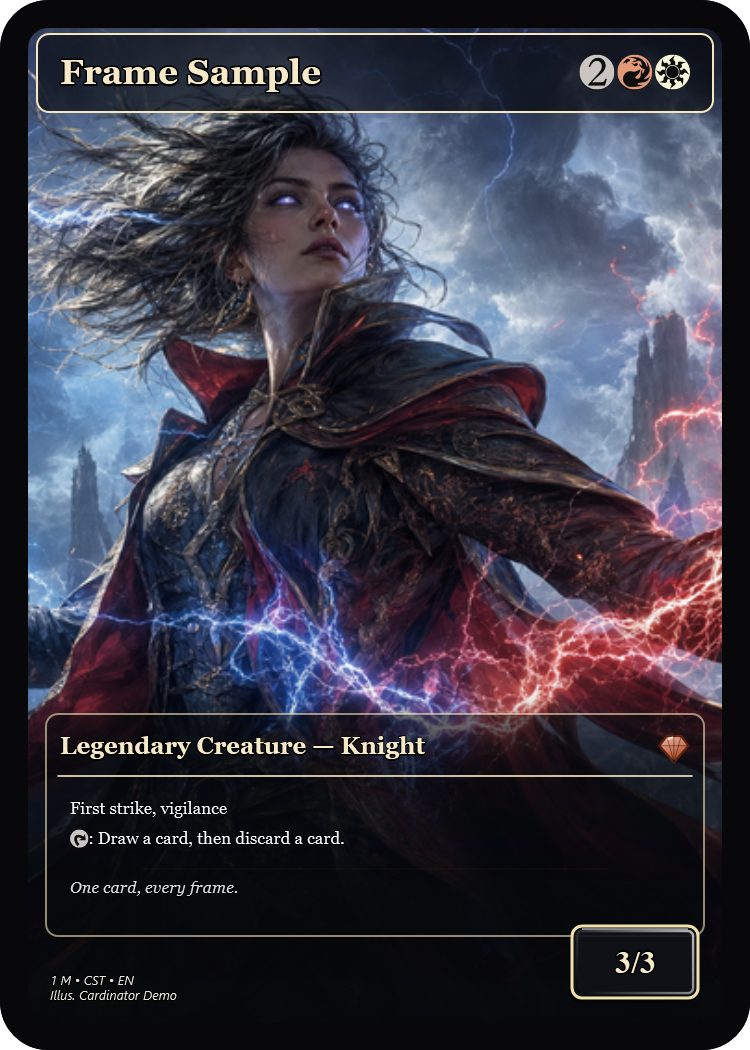
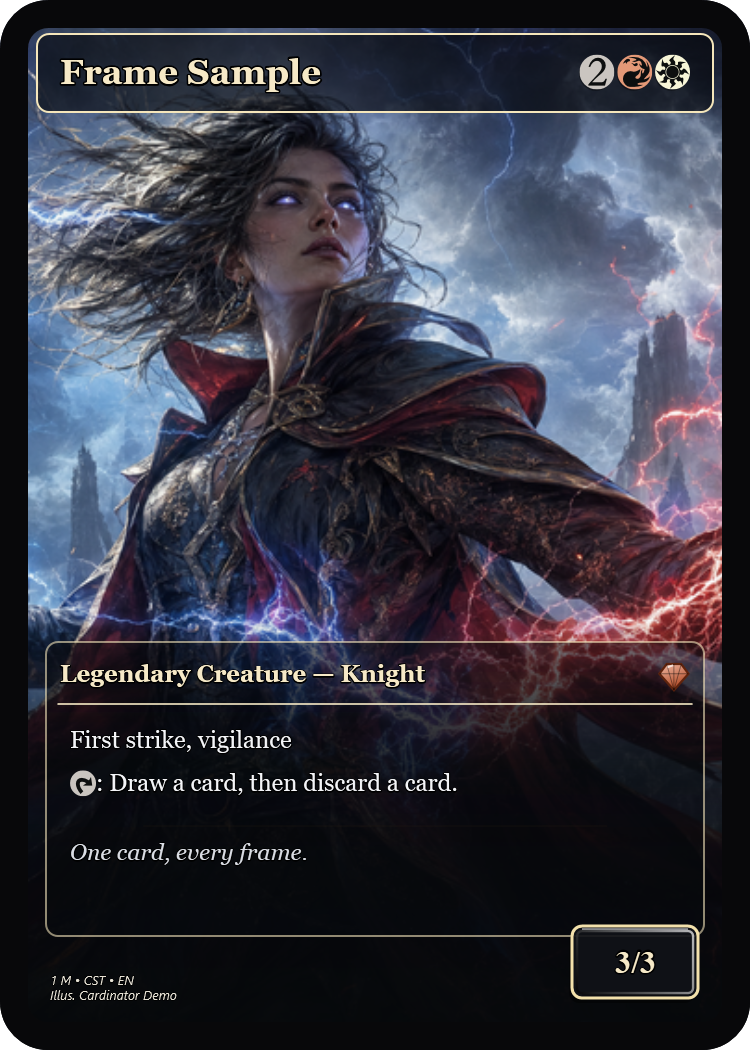
Long text on full-art frames gets room instead of shrinking (1.6.25)
On a frame whose art fills the card (Cinematic, Full Art, Showcase,
Ironwrought Showcase) the text box is short (150-184 px), so a long
card's text shrank to a squint. A card whose text needs more than 1.2x
the box now gets the frame laid out with the type line and text box
raised into the art by the shortfall (24 px steps; the type line no
higher than 52% of the card), drawn and cached like the token and
landscape layouts. Short cards, picture frames and framed art windows
are unchanged. Docs: TEMPLATES explains it; the Cinematic frame image is
redrawn (its sample card's text now reads at full size).

TallTextTests; each part fails its test when taken out. 789 tests pass.

Claude-Session: https://claude.ai/code/session_01VhGah2Lqut8yXp3DQr5jjw

Changed region(s): [[0.0307, 0.6095, 0.9813, 0.8533]]

diff --git a/src/Cardinator/Services/TemplateService.cs b/src/Cardinator/Services/TemplateService.cs
@@ -38,6 +38,7 @@ public sealed class TemplateService
     private static readonly Dictionary<string, Template> LandscapeVariants = new();
     private static readonly Dictionary<string, Template> FlipVariants = new();
     private static readonly Dictionary<string, Template> TokenVariants = new();
+    private static readonly Dictionary<string, Template> TallVariants = new();
     // Every Frame Design tweak makes a new content hash, so the derived-frame caches are bounded: in memory
     // (each holds a full-size frame bitmap) and on disk (CardinatorData/cache/<kind>).
     internal const int VariantCacheMax = 32;
@@ -132,7 +133,13 @@ public sealed class TemplateService
             return TokenOf(template, TokenTextLines(card, template.Spec)) ?? template;
         }
 
-        if (template.Spec.IsLandscape || !card.WantsLandscape) return template;
+        if (template.Spec.IsLandscape || !card.WantsLandscape)
+        {
+            // Long text on a frame whose art fills the card (Cinematic's box is short): the type line and text rise
+            // into the art just far enough, rather than the text shrinking to a squint.
+            double extra = ExtraTextRoom(card, template.Spec);
+            return extra > 0 ? TallerOf(template, extra) ?? template : template;
+        }
         if (template.Variants.TryGetValue(LandscapeVariant, out var side)) return side;
         if (template.Spec.CustomFrame) return template;
         return LandscapeOf(template) ?? template;
@@ -331,6 +338,66 @@ public sealed class TemplateService
     /// cached by content hash in <c>CardinatorData/cache/landscape</c> — never inside the template's own
     /// folder, so a shared template bundle contains only what the user made. Null if it can't be built
     /// (the caller then falls back to portrait rather than failing the render).</summary>
+    /// <summary>How much taller a card's text box should be on a drawn frame whose art fills the card, for text that
+    /// won't fit at a readable size: 0 when it fits with a little shrinking, else the shortfall in steps of
+    /// <see cref="TallStep"/>, the type line rising no higher than <see cref="TallTypeLineTop"/> of the card. A rough
+    /// count (as for tokens) — the renderer still fits the text to the box it gets. 0 on a picture frame (its picture
+    /// can't be redrawn) and on special layouts.</summary>
+    internal static double ExtraTextRoom(CardModel card, TemplateSpec spec)
+    {
+        if (spec.CustomFrame || !spec.ArtFillsCard || spec.IsTokenLayout || spec.IsFlipLayout || spec.IsLandscape) return 0;
+        if (card.IsSplit || card.IsAdventure || card.HasBands) return 0;
+        int lines = TokenTextLines(card, spec);
+        int paragraphs = (card.RulesText ?? "").Split('\n').Count(p => p.Trim().Length > 0);
+        double lineH = spec.RulesFont.Size * 1.34;
+        double need = 36 + lines * lineH + System.Math.Max(0, paragraphs - 1) * lineH * 0.35;
+        if (need <= spec.TextBox.H * TallSlack) return 0;
+        double room = System.Math.Max(0, spec.TypeBar.Y - spec.CanvasHeight * TallTypeLineTop);
+        double extra = System.Math.Min(room, System.Math.Ceiling((need - spec.TextBox.H) / TallStep) * TallStep);
+        return extra >= TallStep ? extra : 0;
+    }
+
+    /// <summary>Text this much taller than its box only shrinks a little, so the box stays as it is.</summary>
+    internal const double TallSlack = 1.2;
+    internal const double TallStep = 24;
+    internal const double TallTypeLineTop = 0.52;
+
+    /// <summary>The frame laid out with a taller text box (<see cref="TemplateSpec.ToTaller"/>), drawn and cached in
+    /// <c>CardinatorData/cache/tall</c> like the other derived layouts. Null if it can't be built.</summary>
+    public static Template? TallerOf(Template template, double extra)
+    {
+        var spec = template.Spec.ToTaller(extra);
+        var key = spec.ContentHash();
+        lock (VariantLock)
+        {
+            if (TallVariants.TryGetValue(key, out var hit)) return hit;
+            try
+            {
+                var dir = Path.Combine(AppPaths.DataDir, "cache", "tall");
+                Directory.CreateDirectory(dir);
+                var framePath = Path.Combine(dir, key[..20] + ".png");
+
+                BitmapImage frame;
+                try
+                {
+                    if (!File.Exists(framePath)) GenerateAtomically(spec, framePath);
+                    frame = CustomFrameComposer.LoadBitmap(framePath);
+                }
+                catch
+                {
+                    SafeDelete(framePath);
+                    GenerateAtomically(spec, framePath);
+                    frame = CustomFrameComposer.LoadBitmap(framePath);
+                }
+
+                var variant = new Template { Name = template.Name, Spec = spec, FramePath = framePath, FrameImage = frame };
+                Remember(TallVariants, key, variant);
+                return variant;
+            }
+            catch { return null; }
+        }
+    }
+
     public static Template? LandscapeOf(Template template)
     {
         var spec = template.Spec.ToLandscape();

diff --git a/tests/Cardinator.Tests/TallTextTests.cs b/tests/Cardinator.Tests/TallTextTests.cs
@@ -1,0 +1,91 @@
+using Cardinator.Models;
+using Cardinator.Services;
+
+namespace Cardinator.Tests;
+
+/// <summary>
+/// 1.6.25: on a frame whose art fills the card (Cinematic, Full Art, Showcase, Ironwrought Showcase) the text box is
+/// short, so a long card's text shrank to a squint. Now such a card gets the frame laid out with the type line and
+/// text box raised into the art just far enough; a short card keeps the frame as it is, and other frames are never
+/// changed. Each test fails with its fix taken out. In the STA-window collection because it builds frames.
+/// </summary>
+[Collection("STAWindows")]
+public class TallTextTests
+{
+    private static Template Frame(string name) => new TemplateService().LoadAll().First(t => t.Name == name);
+
+    private const string Atraxa = "Flying, vigilance, deathtouch, lifelink\nWhen Atraxa enters, reveal the top ten cards of your library. For each card type, you may put a card of that type from among the revealed cards into your hand. Put the rest on the bottom of your library in a random order. (Artifact, battle, creature, enchantment, instant, land, planeswalker, and sorcery are card types.)";
+
+    private static CardModel Card(string rules, string frame) => new()
+    {
+        Name = "Card", TypeLine = "Legendary Creature — Angel", RulesText = rules, Power = "7", Toughness = "7", TemplateName = frame,
+    };
+
+    [Theory]
+    [InlineData("Cinematic")]
+    [InlineData("Full Art")]
+    [InlineData("Showcase")]
+    [InlineData("Ironwrought Showcase")]
+    public void ALongCard_OnAFrameWhoseArtFillsTheCard_GetsATallerTextBox(string name) => TestHelpers.RunSta(() =>
+    {
+        var frame = Frame(name);
+        var used = TemplateService.ResolveFor(Card(Atraxa, name), frame);
+        Assert.True(used.Spec.TextBox.H > frame.Spec.TextBox.H, "the text box didn't grow");
+        Assert.Equal(frame.Spec.TextBox.Bottom, used.Spec.TextBox.Bottom, 3);              // it grows upward only
+        Assert.Equal(frame.Spec.TypeBar.Y - used.Spec.TypeBar.Y, used.Spec.TextBox.H - frame.Spec.TextBox.H, 3);
+        Assert.True(used.Spec.TypeBar.Y >= frame.Spec.CanvasHeight * TemplateService.TallTypeLineTop - 0.5);
+        Assert.Equal(frame.Spec.ArtWindow.H, used.Spec.ArtWindow.H, 3);                    // the art stays full-bleed
+        Assert.NotEqual(frame.FramePath, used.FramePath);                                  // its own band, drawn for it
+        // Resolving again changes nothing (every render path resolves).
+        Assert.Equal(used.Spec.TextBox.H, TemplateService.ResolveFor(Card(Atraxa, name), used).Spec.TextBox.H, 3);
+    });
+
+    [Fact]
+    public void AShortCard_KeepsTheFrameAsItIs() => TestHelpers.RunSta(() =>
+    {
+        var cinematic = Frame("Cinematic");
+        Assert.Same(cinematic, TemplateService.ResolveFor(Card("Flying", "Cinematic"), cinematic));
+    });
+
+    [Fact]
+    public void ACardThatOnlyJustOverflows_ShrinksALittle_AndKeepsTheFrame() => TestHelpers.RunSta(() =>
+    {
+        var cinematic = Frame("Cinematic");
+        var card = new CardModel
+        {
+            Name = "Spell", TypeLine = "Instant", TemplateName = "Cinematic",
+            RulesText = "Counter target spell unless its controller pays {3}. If that spell is countered this way, exile it instead of putting it into its owner's graveyard, then scry 2 and draw a card.",
+        };
+        Assert.Same(cinematic, TemplateService.ResolveFor(card, cinematic));
+    });
+
+    [Theory]
+    [InlineData("Azure Modern")]        // a framed art window
+    [InlineData("Alchemist's Steel")]   // a picture frame: its picture can't be redrawn
+    public void OtherFrames_NeverChange(string name) => TestHelpers.RunSta(() =>
+    {
+        var frame = Frame(name);
+        Assert.Same(frame, TemplateService.ResolveFor(Card(Atraxa, name), frame));
+    });
+
+    [Fact]
+    public void ALongCard_ReadsLargerThanBefore_OnCinematic() => TestHelpers.RunSta(() =>
+    {
+        // The rules text's line height on the plain frame vs. the frame it now gets: the text is drawn larger.
+        var cinematic = Frame("Cinematic");
+        var card = Card(Atraxa, "Cinematic");
+        double LineGap(Template t)
+        {
+            var r = new CardRenderer(new SymbolService());
+            var box = new System.Windows.Rect(t.Spec.TextBox.X + 18, t.Spec.TextBox.Y + 18, t.Spec.TextBox.W - 36, t.Spec.TextBox.H - 36);
+            for (double size = t.Spec.RulesFont.Size; size >= 11; size--)
+            {
+                var runs = r.InspectTextLayout(card.RulesText, box, t.Spec.RulesFont, size, size);
+                if (runs.Max(p => p.Rect.Bottom) <= box.Bottom) return size;
+            }
+            return 11;
+        }
+        double before = LineGap(cinematic), after = LineGap(TemplateService.ResolveFor(card, cinematic));
+        Assert.True(after >= before + 4, $"rules text fits at {after}pt on the taller box vs {before}pt before");
+    });
+}

diff --git a/src/Cardinator/Models/TemplateSpec.cs b/src/Cardinator/Models/TemplateSpec.cs
@@ -264,6 +264,11 @@ public sealed class TemplateSpec
     [JsonIgnore]
     public bool IsLandscape => CanvasWidth > CanvasHeight;
 
+    /// <summary>True when the art fills the whole card (Full Art, Showcase, Cinematic): the type line and text sit on
+    /// the art, so they can move without the art window changing.</summary>
+    [JsonIgnore]
+    public bool ArtFillsCard => ArtWindow.X <= 1 && ArtWindow.Y <= 1 && ArtWindow.Right >= CanvasWidth - 1 && ArtWindow.Bottom >= CanvasHeight - 1;
+
     /// <summary>
     /// The same template laid out LANDSCAPE: canvas width and height swap, and every region is re-placed so
     /// the frame keeps its look (style, colors, fonts, margins) on a sideways card. That lets every portrait
@@ -404,6 +409,17 @@ public sealed class TemplateSpec
     /// </summary>
     /// <param name="reserve">Extra height the box needs beyond its lines (a medallion set into its bottom edge,
     /// which the text stops above).</param>
+    /// <summary>This layout with the type line and text box raised by <paramref name="extra"/> and the box that much
+    /// taller — for a card whose text won't fit the box at a readable size, on a frame whose art fills the card
+    /// (<see cref="ArtFillsCard"/>), where the band behind the text just covers more of the art.</summary>
+    public TemplateSpec ToTaller(double extra)
+    {
+        var s = Clone();
+        s.TypeBar = new Region { X = TypeBar.X, Y = TypeBar.Y - extra, W = TypeBar.W, H = TypeBar.H };
+        s.TextBox = new Region { X = TextBox.X, Y = TextBox.Y - extra, W = TextBox.W, H = TextBox.H + extra };
+        return s;
+    }
+
     public TemplateSpec ToToken(int textLines, double reserve = 0)
     {
         if (IsTokenLayout || IsFlipLayout) return this;

diff --git a/docs/TEST_PLAN.md b/docs/TEST_PLAN.md
@@ -266,6 +266,12 @@ These drive the fix backlog.
 - ✅ **Split follow-ups (done, 1.6.9):** a split or aftermath card's other half can have a frame of its own: `CardModel.HalfTemplateName` (on the card, blank = the card's frame; the half's own `TemplateName` only ever recorded what it was made with, so older sets look unchanged), picked in **Other half's frame** under FLIP / SPLIT CARD (window test, undoable). `TemplateService.Named` looks frames up by name (installed frames, replaced on each `LoadAll`, then folders loaded with `LoadFrom`); `CardRenderer.HalfTemplate` → `SplitGeometry` gives each half its own scale and shape, so a frame of another shape fits its slot. Travels with **Share set + frames** and counts for the delete-frame warning (`TemplateService.FramesUsed`); CHECKS `half-frame-missing`; the other half's checks use its own frame; CSV `split_frame`. The Fuse / Room bar is each half's colour at its end (`SplitBarFill`, from the half's cost, lightened, blended at the gutter). Also fixed: plain rules text on a frame with a medallion set into the text box (PCC, most of Jacob's) now stops above it instead of running under it (`DrawTextBox` ornament; short text unchanged); the medallion cache is keyed by frame image. `SplitFramesTests` (8); `--qa` gains two cases (48 renders, 0 errors). Review pass: in `--rendercards templates=<dir>` a folder's frame now wins for the other half too, as it already did for the card (`TemplateService.Named` checks folder frames first).
 - ✅ **Token example (1.6.11):** `examples/05-tokens-emblems` redone for the token layout: nine tokens (vanilla, with rules, an emblem, one on a picture frame) across nine frames with original art made for it, rendered with `--batch`, plus the 3×3 print sheet; the User Guide's token picture comes from it.
 - ✅ **Frames set aside by mistake come back (1.6.19):** before 1.6.17, a moment of low memory or a locked file set a picture frame aside as `frame.png.corrupt-…` and drew a generated placeholder in its place, for good. Now a set-aside frame that reads fine is put back — newest first, only over a missing frame or that exact placeholder (the frame its spec generates, byte for byte), never over a frame the user put there since, and never with a file that's really corrupt (`RestoreSetAsideFrame`). Also tested now: **Fill blanks** gives a back face it adds the set's defaults (that code shipped untested in 1.6.15). `LooseEndsTests`; each fails with its fix taken out.
+- ✅ **Taller text on full-art frames (1.6.25)** — on a frame whose art fills the card (Cinematic, Full Art, Showcase,
+  Ironwrought Showcase) the text box is short (150–184 px), so a long card's text shrank to a squint. A card whose text
+  needs more than 1.2× the box now gets the frame laid out with the type line and box raised into the art by the
+  shortfall (in 24 px steps, the type line no higher than 52% of the card), drawn and cached like the token and
+  landscape layouts; short cards, picture frames and framed art windows are unchanged. `TallTextTests`; each part
+  fails its test when taken out.
 - ✅ **Regular printings (1.6.24)** — a card looked up by name alone came as Scryfall's default printing, which is
   sometimes a special one (Lightning Bolt's is a Marvel crossover: Thor's art). A special printing (Universes Beyond,
   promo, digital, joke/memorabilia/Alchemy set) found by name now gives way to the same card's regular paper printing

diff --git a/docs/TEMPLATES.md b/docs/TEMPLATES.md
@@ -45,6 +45,10 @@ The last two: **Azure Modern** (an M15-style
 base) and **Ironwrought Showcase** (a `composable` frame — full-bleed art with connected two-tone
 panels and a regal crown).
 
+On the frames whose art fills the whole card (**Full Art**, **Showcase**, **Cinematic**, **Ironwrought Showcase**) the
+text sits low on the art in a short box. A card with a lot of text doesn't shrink it to a squint: its type line and
+text box rise into the art just far enough to fit, on that card only.
+
 ### Alchemy sample frames
 
 Cardinator also ships three richer, **image-based** sample frames — an original alchemy-themed set
